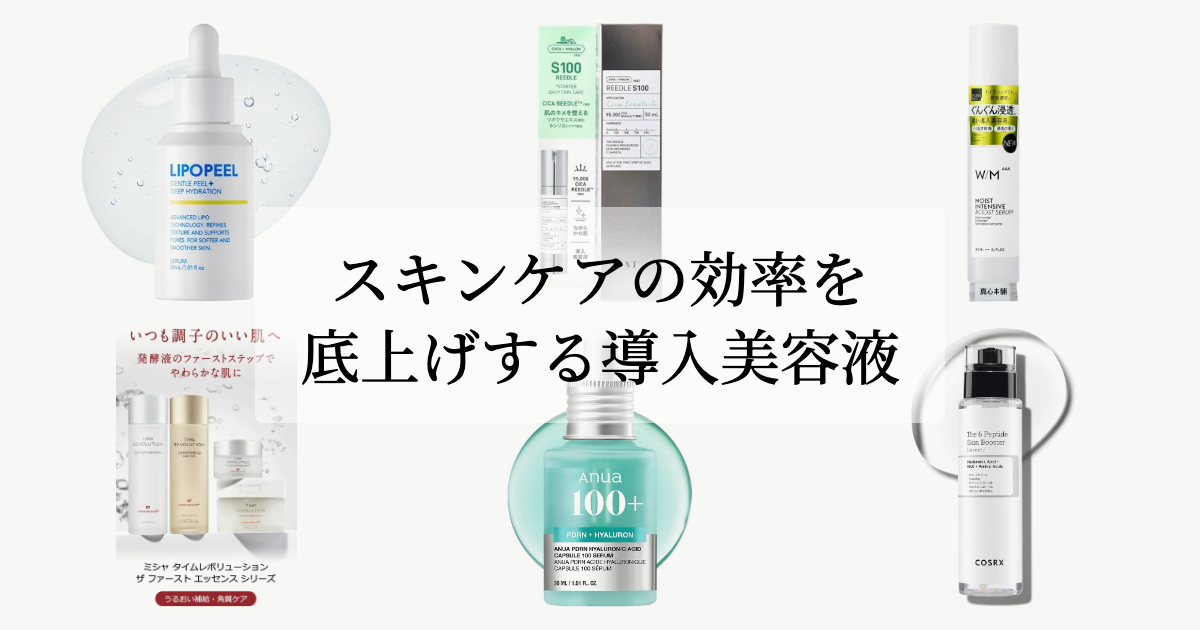
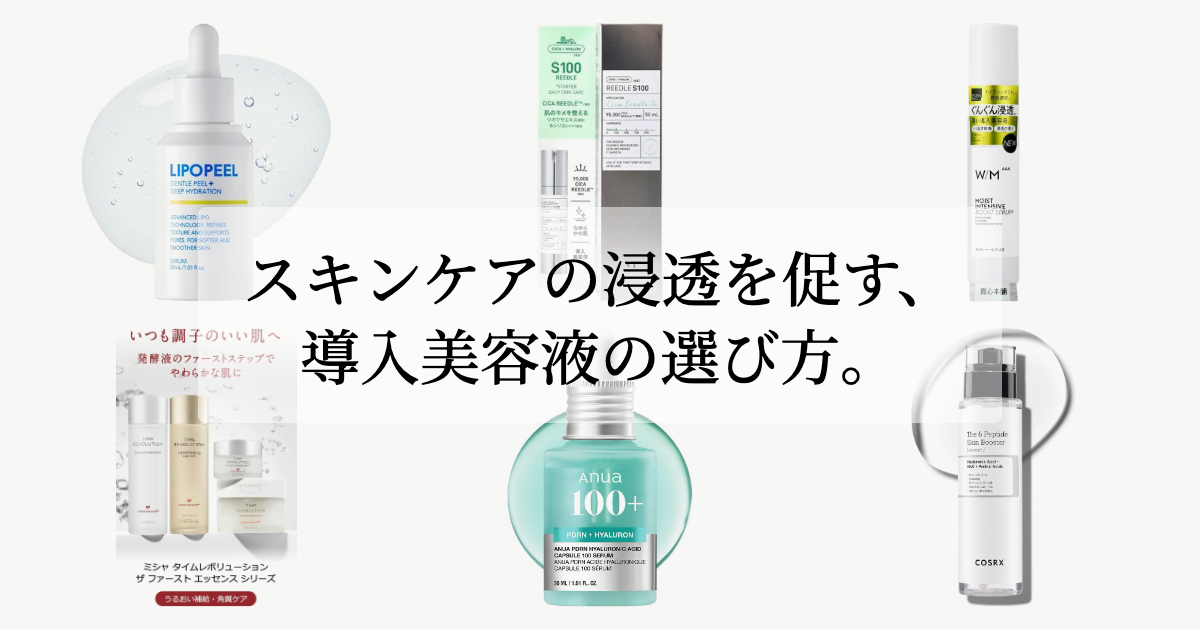
Publish プチプラの導入美容液 article via pipeline

diff --git a/public/eyecatch/20260618-affordable-booster.html b/public/eyecatch/20260618-affordable-booster.html
@@ -16,5 +16,5 @@ body { font-family: 'Noto Serif JP', serif; display: flex; align-items: center; 
 <div class="pw"><img src="https://m.media-amazon.com/images/I/51FO9pE6GjL._AC_SL1000_.jpg" class="pi" alt="" loading="eager" /></div>
 <div class="pw"><img src="https://m.media-amazon.com/images/I/61ZNyaBF0CL._AC_SL1500_.jpg" class="pi" alt="" loading="eager" /></div>
 </div>
-<div class="to"><h1 class="ti">スキンケアの効率を<br />底上げする導入美容液</h1></div>
+<div class="to"><h1 class="ti">スキンケアの浸透を促す、<br />導入美容液の選び方。</h1></div>
 </body></html>
